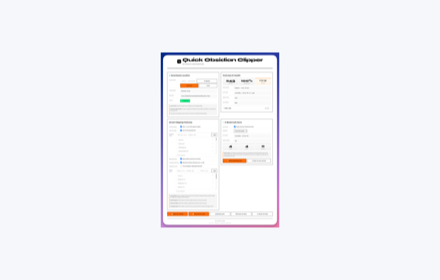
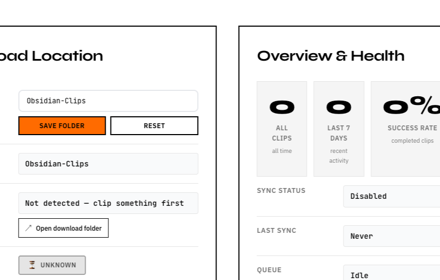
chore: refresh store assets from current build

diff --git a/options-redesigned.html b/options-redesigned.html
@@ -763,7 +763,7 @@
 
     <footer>
       <div>Quick Obsidian Clipper</div>
-      <div class="version">v2.4.14 — X-Bookmark Sync clarity</div>
+      <div class="version">v2.4.16 — Chrome Web Store release</div>
     </footer>
   </div>
 

diff --git a/docs/store-listing/submission-checklist.md b/docs/store-listing/submission-checklist.md
@@ -127,9 +127,10 @@ Begründung:
 
 - Version: `2.4.16`
 - ZIP: `dist/quick-obsidian-clipper-v2.4.16-chrome-store.zip`
[2 lines of base64/hex data omitted]
 - Inhalt: 32 Laufzeitdateien; keine `.git`-, `docs`-, `archive`-, `scripts`- oder `.DS_Store`-Einträge.
 - Checks: Manifest-JSON gültig, JavaScript-Syntaxchecks, URL-Guard-Tests, X-Sync-Scraper-Fallbacktest und ZIP-Integritätstest.
+- Visual QA: Optionsseite wurde in Chromium mit geladener Extension unter `v2.4.16` geöffnet; Screenshot und Promo-Tile wurden daraus erzeugt.
 - Listing-Metadaten: `docs/store-listing/submission-metadata.md`
 
 ---
